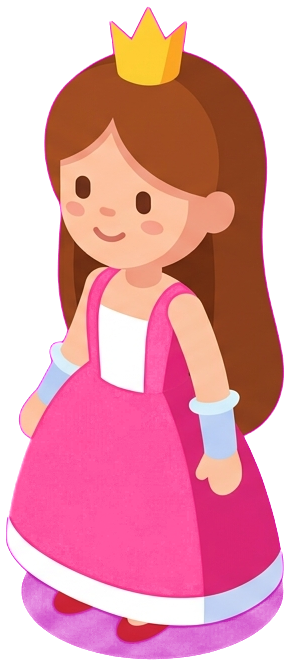
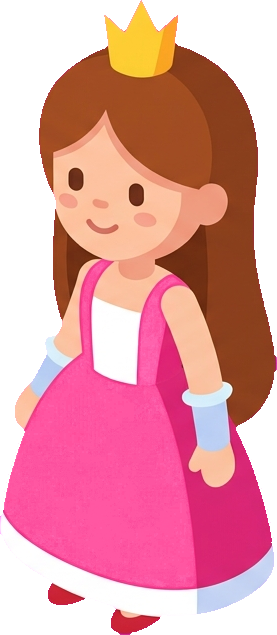
Level 5

diff --git a/levels.js b/levels.js
@@ -226,4 +226,74 @@ window.LEVELS = [
     decorations: [
     ],
   },
+
+  {
+    id: 'starlight_keep',
+    name: 'STARLIGHT KEEP',
+    spawn: { x: 80, y: 300 },
+    goal: { x: 4480, y: 20, w: 14, h: 120 },
+    endX: 4720,
+    deathY: 700,
+    theme: {},
+    platforms: [
+      { x: 0, y: 460, w: 700, h: 260, type: 'solid' },
+      { x: 900, y: 460, w: 550, h: 260, type: 'solid' },
+      { x: 1660, y: 460, w: 560, h: 260, type: 'solid' },
+      { x: 2440, y: 460, w: 460, h: 260, type: 'solid' },
+      { x: 3140, y: 460, w: 460, h: 260, type: 'solid' },
+      { x: 3820, y: 460, w: 900, h: 260, type: 'solid' },
+      { x: 540, y: 370, w: 140, h: 20, type: 'one-way' },
+      { x: 700, y: 300, w: 140, h: 20, type: 'one-way' },
+      { x: 850, y: 370, w: 120, h: 20, type: 'one-way' },
+      { x: 1160, y: 350, w: 140, h: 20, type: 'one-way' },
+      { x: 1360, y: 280, w: 140, h: 20, type: 'one-way' },
+      { x: 1530, y: 350, w: 140, h: 20, type: 'one-way' },
+      { x: 1900, y: 360, w: 140, h: 20, type: 'one-way' },
+      { x: 2110, y: 270, w: 140, h: 20, type: 'one-way' },
+      { x: 2290, y: 340, w: 140, h: 20, type: 'one-way' },
+      { x: 2580, y: 350, w: 140, h: 20, type: 'one-way' },
+      { x: 2790, y: 280, w: 140, h: 20, type: 'one-way' },
+      { x: 2960, y: 340, w: 160, h: 20, type: 'one-way' },
+      { x: 3270, y: 350, w: 140, h: 20, type: 'one-way' },
+      { x: 3500, y: 280, w: 140, h: 20, type: 'one-way' },
+      { x: 3680, y: 350, w: 160, h: 20, type: 'one-way' },
+      { x: 3860, y: 380, w: 170, h: 20, type: 'one-way' },
+      { x: 4020, y: 300, w: 170, h: 20, type: 'one-way' },
+      { x: 4180, y: 220, w: 170, h: 20, type: 'one-way' },
+      { x: 4340, y: 140, w: 300, h: 20, type: 'one-way' },
+    ],
+    pickups: [
+      { x: 596, y: 340, w: 14, h: 14, taken: false },
+      { x: 756, y: 270, w: 14, h: 14, taken: false },
+      { x: 1206, y: 320, w: 14, h: 14, taken: false },
+      { x: 1416, y: 250, w: 14, h: 14, taken: false },
+      { x: 1956, y: 310, w: 14, h: 14, taken: false },
+      { x: 2166, y: 240, w: 14, h: 14, taken: false },
+      { x: 2636, y: 320, w: 14, h: 14, taken: false },
+      { x: 2846, y: 250, w: 14, h: 14, taken: false },
+      { x: 3326, y: 320, w: 14, h: 14, taken: false },
+      { x: 3556, y: 250, w: 14, h: 14, taken: false },
+      { x: 3936, y: 350, w: 14, h: 14, taken: false },
+      { x: 4096, y: 270, w: 14, h: 14, taken: false },
+      { x: 4256, y: 190, w: 14, h: 14, taken: false },
+      { x: 4400, y: 110, w: 14, h: 14, taken: false },
+      { x: 4440, y: 110, w: 14, h: 14, taken: false },
+    ],
+    enemies: [
+      { x: 320, y: 434, w: 26, h: 26, vx: 0.8, minX: 20, maxX: 690, alive: true },
+      { x: 1060, y: 434, w: 26, h: 26, vx: -0.9, minX: 920, maxX: 1440, alive: true },
+      { x: 1840, y: 434, w: 26, h: 26, vx: 0.9, minX: 1680, maxX: 2210, alive: true },
+      { x: 2580, y: 434, w: 26, h: 26, vx: -1, minX: 2460, maxX: 2890, alive: true },
+      { x: 3300, y: 434, w: 26, h: 26, vx: 1, minX: 3160, maxX: 3590, alive: true },
+      { x: 3980, y: 434, w: 26, h: 26, vx: -1, minX: 3840, maxX: 4700, alive: true },
+      { x: 4080, y: 274, w: 26, h: 26, vx: 0.8, minX: 4020, maxX: 4190, alive: true },
+    ],
+    decorations: [
+      { x: 220, y: 440, w: 18, h: 20, color: '#4A9A34' },
+      { x: 1120, y: 440, w: 18, h: 20, color: '#4A9A34' },
+      { x: 1960, y: 440, w: 18, h: 20, color: '#4A9A34' },
+      { x: 2680, y: 440, w: 18, h: 20, color: '#4A9A34' },
+      { x: 3400, y: 440, w: 18, h: 20, color: '#4A9A34' },
+    ],
+  },
 ];

diff --git a/index.html b/index.html
@@ -1812,6 +1812,7 @@
           "rocks": { w: 150, anchor: 0.9688 },
           "pond": { w: 250, anchor: 0.4992 },
           "cabin": { w: 200, anchor: 0.9613 },
+          quinn: { w: 49, anchor: 0.9984 },
         };
         const lsImages = {};
         for (const spriteName of Object.keys(LS_SPRITES)) {
@@ -1820,7 +1821,7 @@
           lsImages[spriteName] = img;
         }
 
-        function lsSprite(name, sx, sy, scale = 1) {
+        function lsSprite(name, sx, sy, scale = 1, flip = false) {
           const def = LS_SPRITES[name];
           const img = lsImages[name];
           if (!def || !img || !img.complete || !img.naturalWidth) return null;
@@ -1834,7 +1835,13 @@
           ctx.save();
           ctx.imageSmoothingEnabled = true;
           ctx.imageSmoothingQuality = "high";
-          ctx.drawImage(img, dx, dy, dw, dh);
+          if (flip) {
+            ctx.translate(sx, 0);
+            ctx.scale(-1, 1);
+            ctx.drawImage(img, -dw / 2, dy, dw, dh);
+          } else {
+            ctx.drawImage(img, dx, dy, dw, dh);
+          }
           ctx.restore();
           return { dw, dh };
         }
@@ -2074,23 +2081,20 @@
             lsWalker.t >= 1 && !lsReduceMotion
               ? Math.sin(renderTick * 0.09) * 2.5
               : 0;
-          const h = 92;
-          const w = h * 0.5;
           const feetY = s.y + 2 - hop + idle;
 
-          lsShadow(s.x, s.y + 10, 16 - hop * 0.3, 6 - hop * 0.1, 0.18);
+          lsShadow(s.x, s.y + 10, 18 - hop * 0.3, 7 - hop * 0.1, 0.22);
 
+          if (lsSprite("quinn", s.x, feetY, 1, lsWalker.facing < 0)) return;
+
+          // Fallback to the in-game pixel sprite until the map art has loaded.
           if (!playerSpriteReady) return;
+          const h = 92;
+          const w = h * 0.5;
           ctx.save();
           ctx.imageSmoothingEnabled = true;
           ctx.imageSmoothingQuality = "high";
-          if (lsWalker.facing < 0) {
-            ctx.translate(s.x + w / 2, feetY - h);
-            ctx.scale(-1, 1);
-            ctx.drawImage(playerSprite, 0, 0, w, h);
-          } else {
-            ctx.drawImage(playerSprite, s.x - w / 2, feetY - h, w, h);
-          }
+          ctx.drawImage(playerSprite, s.x - w / 2, feetY - h, w, h);
           ctx.restore();
         }
 
